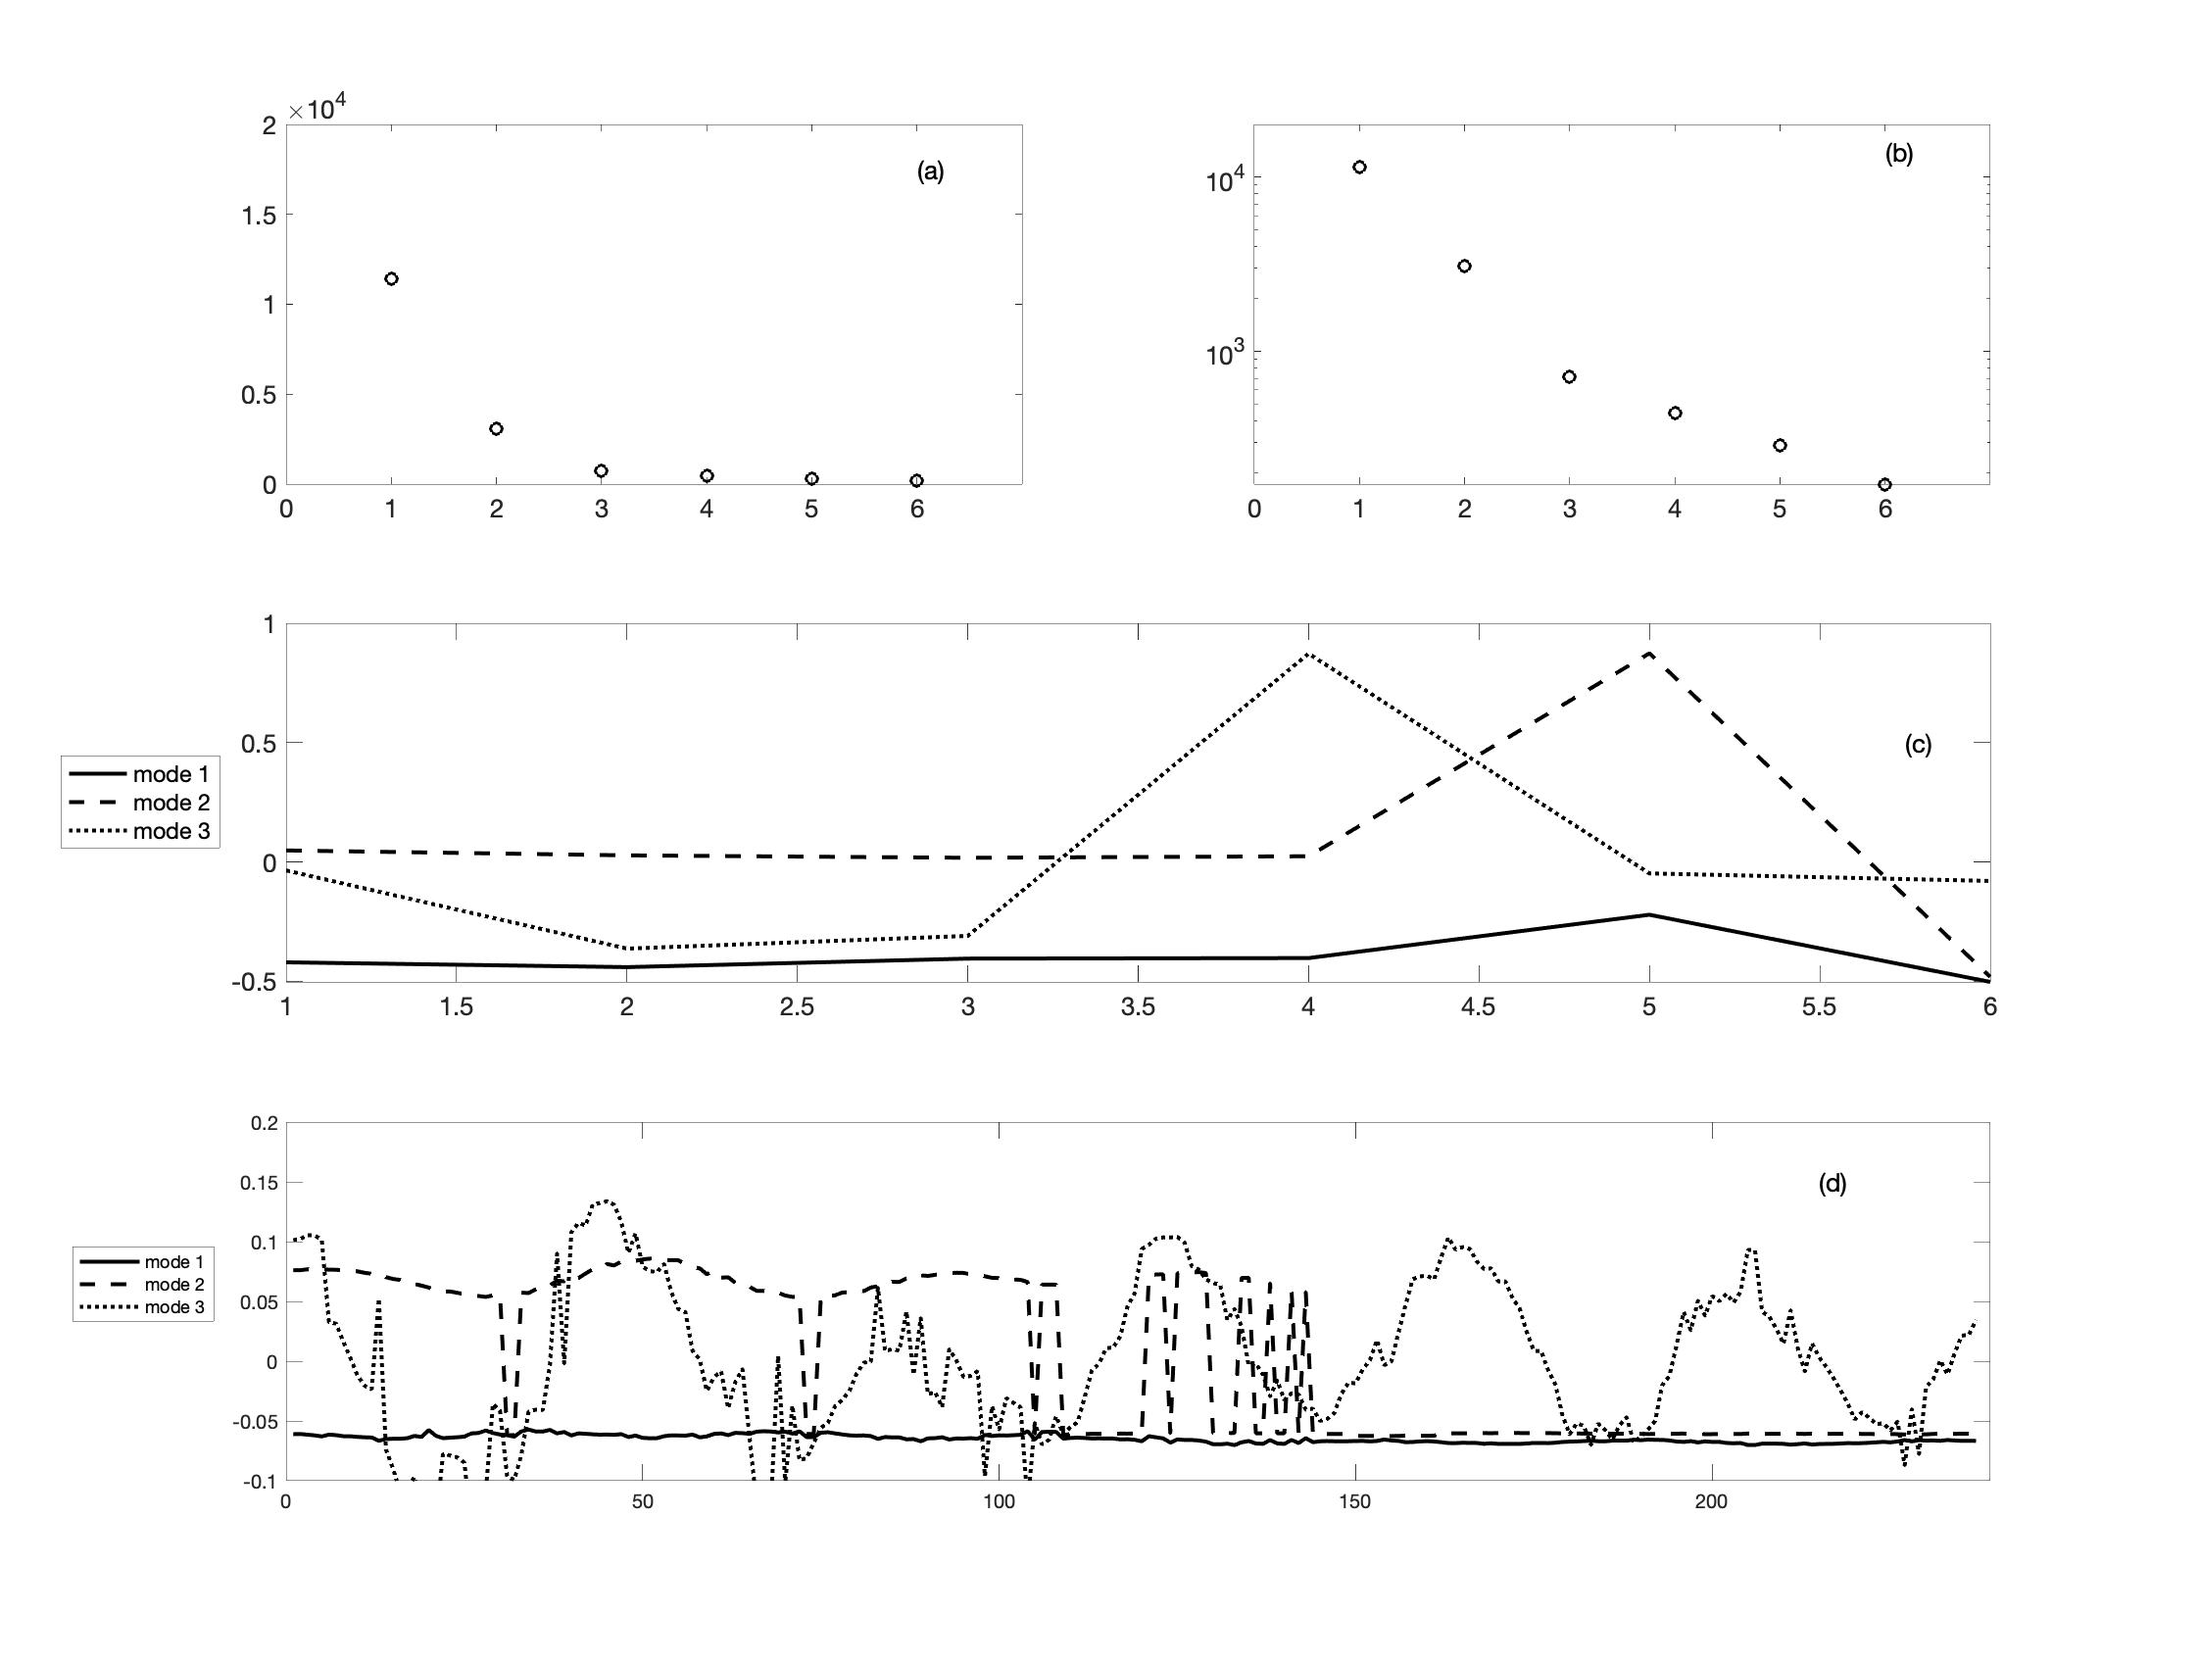
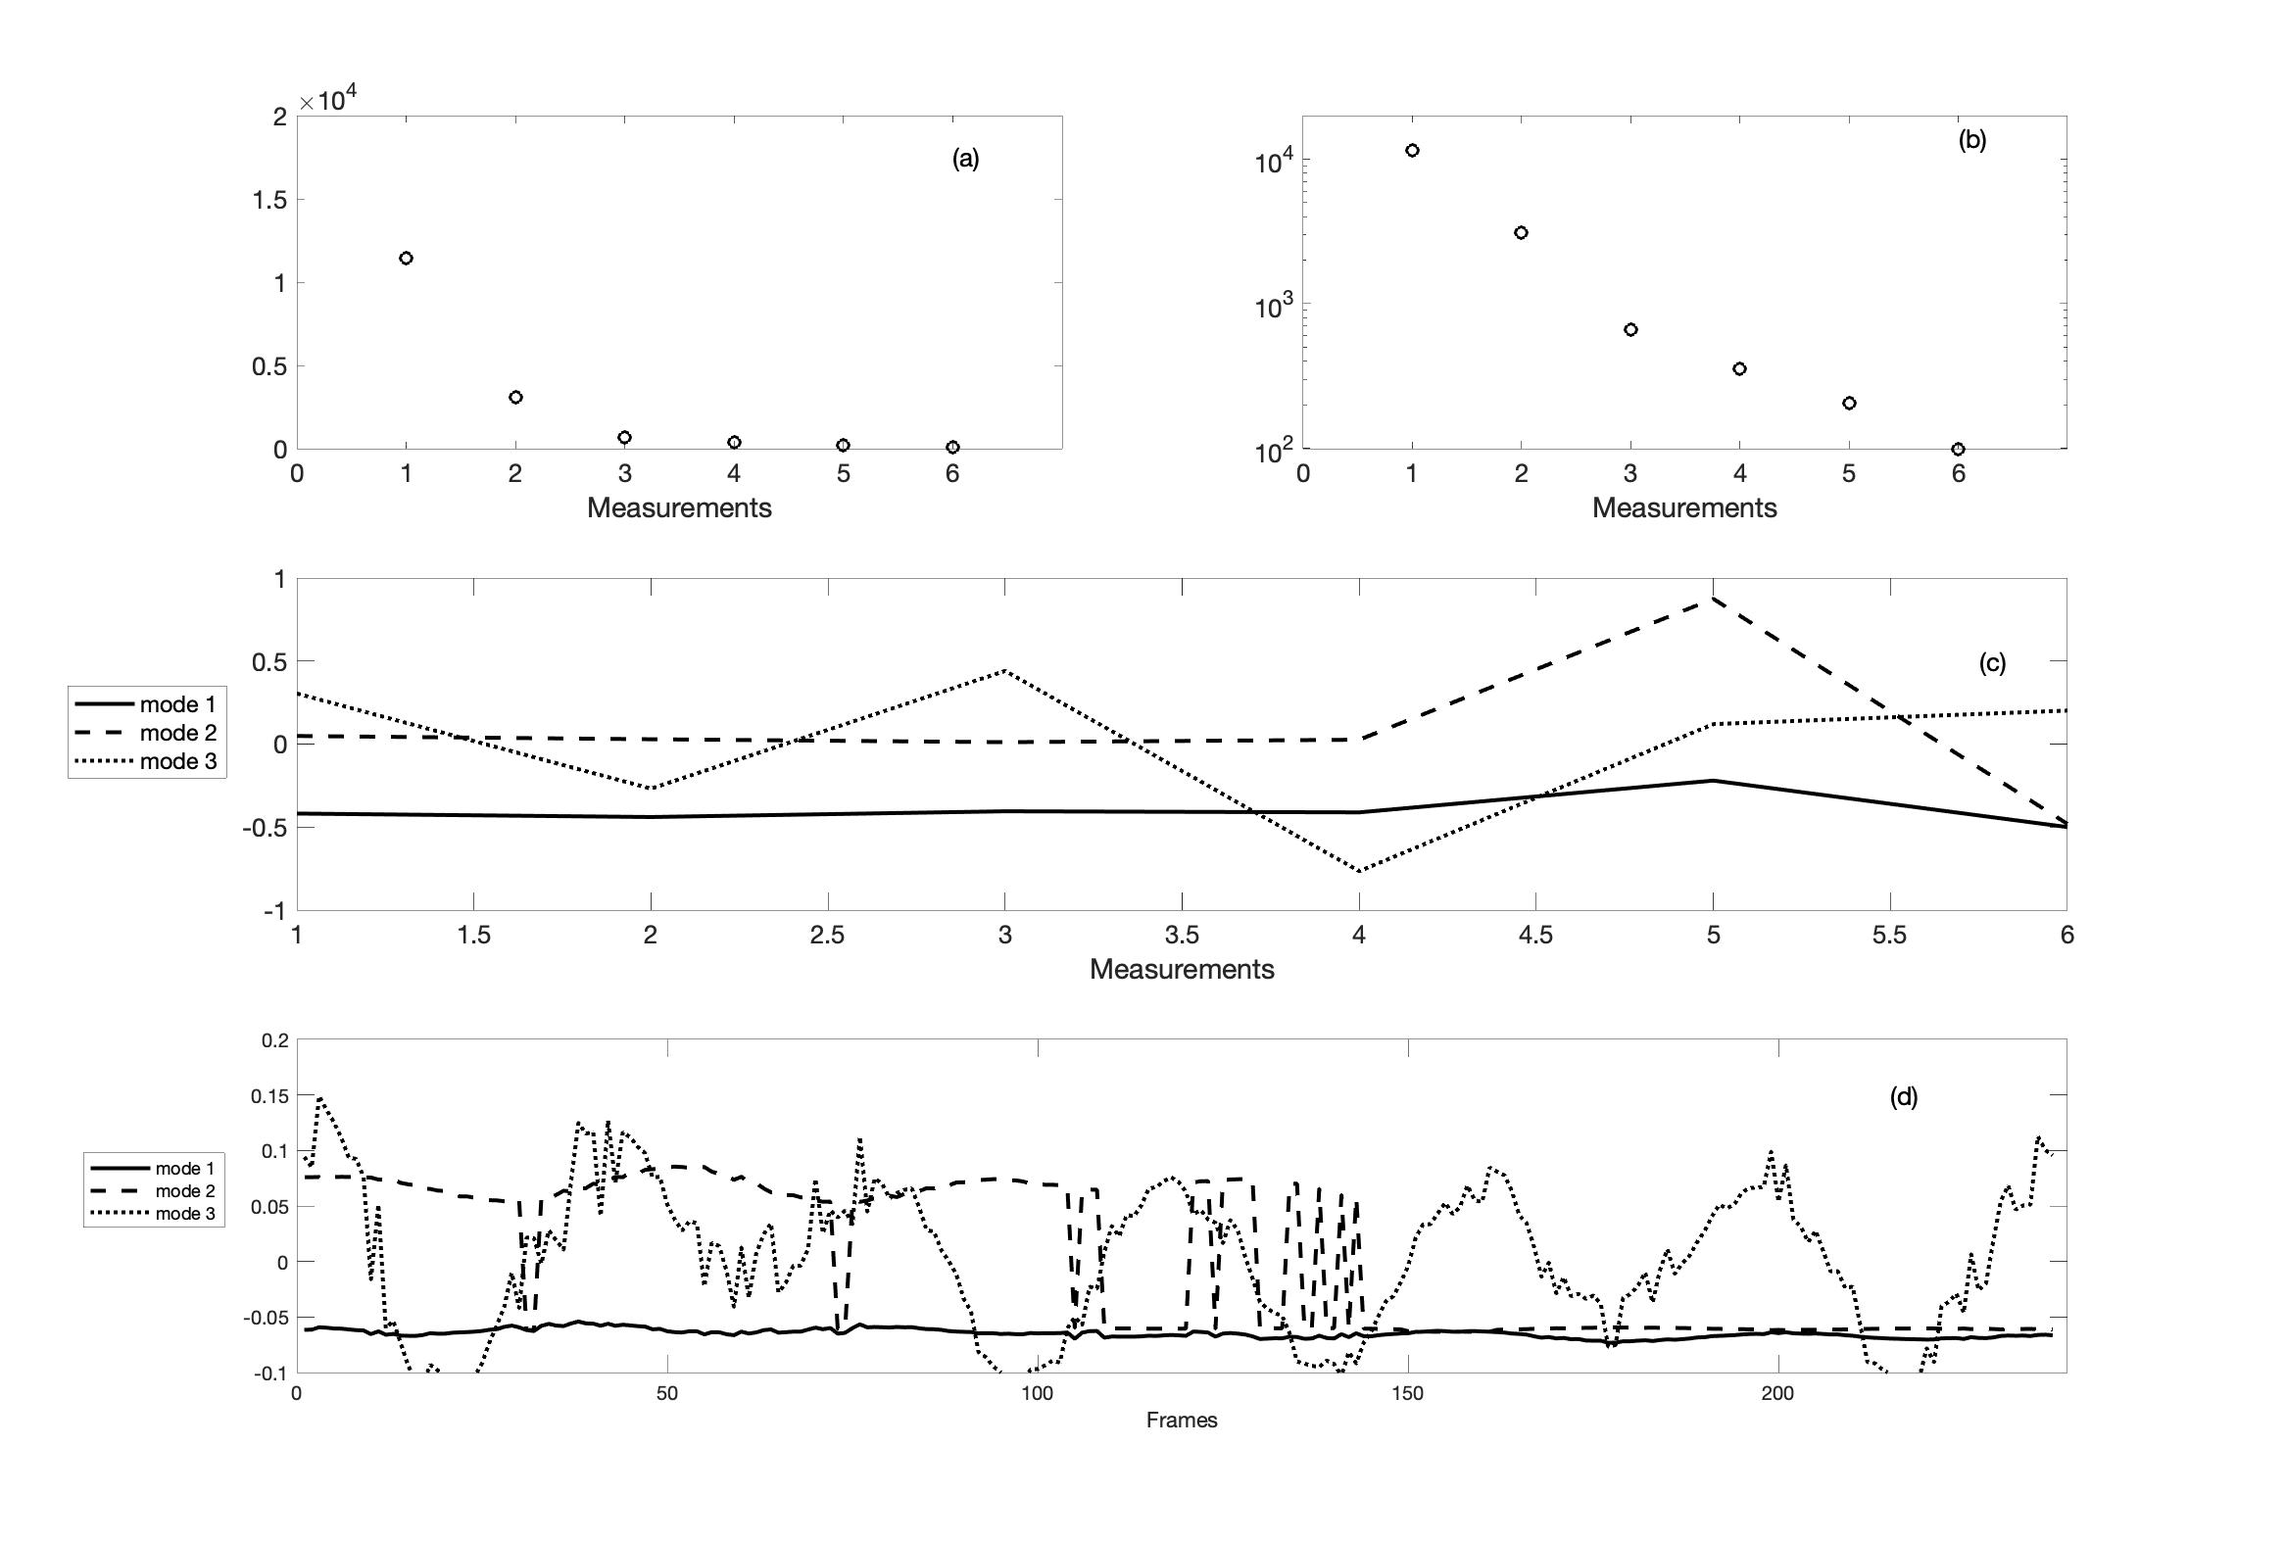
updating figure labels

diff --git a/HorizDispwRot.m b/HorizDispwRot.m
@@ -46,17 +46,17 @@ end
 figure(1)
 for i = 1:min(frames)  
     subplot(1,3,1) % i = 15 at peak
-    F1 = frame2im(mov1(i + 15));
+    F1 = frame2im(mov1(i));
     imshow(F1);
     drawnow
     
     subplot(1,3,2) % i = 19 at peak
-    F2 = frame2im(mov2(i + 19));
+    F2 = frame2im(mov2(i));
     imshow(F2);
     drawnow
     
     subplot(1,3,3) % i = 16 at peak
-    F3 = frame2im(mov3(i + 16));
+    F3 = frame2im(mov3(i));
     imshow(F3);
     drawnow
 end
@@ -162,12 +162,14 @@ subplot(3,2,1), plot(sig,'ko','Linewidth',[1.5])
 axis([0 7 0 2*10^4])
 set(gca,'Fontsize',[13],'Xtick',[0 1 2 3 4 5 6]) 
 text(6,1.75*10^4,'(a)','Fontsize',[13])
+xlabel('Measurements')
 
 subplot(3,2,2), semilogy(sig,'ko','Linewidth',[1.5])
 axis([0 7 0 2*10^4])
 set(gca,'Fontsize',[13],'Ytick',[10^0 10^2 10^3 10^4 10^5],...
    'Xtick',[0 1 2 3 4 5 6]); 
 text(6,1.4*10^4,'(b)','Fontsize',[13])
+xlabel('Measurements')
 
 xtest = linspace(1,6,6);
 subplot(3,1,2) 
@@ -175,6 +177,7 @@ plot(xtest,u(:,1),'k',xtest,u(:,2),'k--',xtest,u(:,3),'k:','Linewidth',[2])
 set(gca,'Fontsize',[13])
 legend('mode 1','mode 2','mode 3','Location','NorthWest') 
 text(5.75,0.5,'(c)','Fontsize',[13])
+xlabel('Measurements')
 
 subplot(3,1,3)
 t = linspace(1,shortest,shortest);
@@ -182,3 +185,4 @@ plot(t, v(:,1),'k',t, v(:,2),'k--',t, v(:,3),'k:','Linewidth',[2])
 legend('mode 1','mode 2','mode 3','Location','NorthWest') 
 axis([0 numFrames1 -0.1 0.2])
 text(355,0.15,'(d)','Fontsize',[13])
+xlabel('Frames')

diff --git a/Ideal_Case.m b/Ideal_Case.m
@@ -156,6 +156,7 @@ sig=diag(s);
 subplot(3,2,1), plot(sig,'ko','Linewidth',[1.5])
 axis([0 7 0 2*10^4])
 set(gca,'Fontsize',[13],'Xtick',[0 1 2 3 4 5 6]) 
+xlabel('Measurements')
 text(6,1.75*10^4,'(a)','Fontsize',[13])
 
 subplot(3,2,2), semilogy(sig,'ko','Linewidth',[1.5])
@@ -163,11 +164,13 @@ axis([0 7 0 2*10^4])
 set(gca,'Fontsize',[13],'Ytick',[10^0 10^2 10^3 10^4 10^5],...
    'Xtick',[0 1 2 3 4 5 6]); 
 text(6,1.4*10^4,'(b)','Fontsize',[13])
+xlabel('Measurements')
 
 xtest = linspace(1,6,6);
 subplot(3,1,2) 
 plot(xtest,u(:,1),'k',xtest,u(:,2),'k--',xtest,u(:,3),'k:','Linewidth',[2]) 
 set(gca,'Fontsize',[13])
+xlabel('Measurements')
 legend('mode 1','mode 2','mode 3','Location','NorthWest') 
 text(5.5,0.35,'(c)','Fontsize',[13])
 
@@ -175,5 +178,6 @@ subplot(3,1,3)
 t = linspace(1,numFrames1,numFrames1);
 plot(t, v(:,1),'k',t, v(:,2),'k--',t, v(:,3),'k:','Linewidth',[2])
 legend('mode 1','mode 2','mode 3','Location','NorthWest') 
+xlabel('Frames')
 axis([0 numFrames1 -0.1 0.2])
 text(215,0.15,'(d)','Fontsize',[13])

diff --git a/Noisy_Case.m b/Noisy_Case.m
@@ -152,12 +152,14 @@ subplot(3,2,1), plot(sig,'ko','Linewidth',[1.5])
 axis([0 7 0 2*10^4])
 set(gca,'Fontsize',[13],'Xtick',[0 1 2 3 4 5 6]) 
 text(6,1.75*10^4,'(a)','Fontsize',[13])
+xlabel('Measurements')
 
 subplot(3,2,2), semilogy(sig,'ko','Linewidth',[1.5])
 axis([0 7 0 2*10^4])
 set(gca,'Fontsize',[13],'Ytick',[10^0 10^2 10^3 10^4 10^5],...
    'Xtick',[0 1 2 3 4 5 6]); 
 text(6,1.4*10^4,'(b)','Fontsize',[13])
+xlabel('Measurements')
 
 xtest = linspace(1,6,6);
 subplot(3,1,2) 
@@ -165,6 +167,7 @@ plot(xtest,u(:,1),'k',xtest,u(:,2),'k--',xtest,u(:,3),'k:','Linewidth',[2])
 set(gca,'Fontsize',[13])
 legend('mode 1','mode 2','mode 3','Location','NorthWest') 
 text(5.75,0.35,'(c)','Fontsize',[13])
+xlabel('Measurements')
 
 subplot(3,1,3)
 t = linspace(1,numFrames1,numFrames1);
@@ -172,3 +175,4 @@ plot(t, v(:,1),'k',t, v(:,2),'k--',t, v(:,3),'k:','Linewidth',[2])
 legend('mode 1','mode 2','mode 3','Location','NorthWest') 
 axis([0 numFrames1 -0.1 0.2])
 text(300,0.15,'(d)','Fontsize',[13])
+xlabel('Frames')

diff --git a/Horizontal_Displacement.m b/Horizontal_Displacement.m
@@ -156,12 +156,14 @@ subplot(3,2,1), plot(sig,'ko','Linewidth',[1.5])
 axis([0 7 0 2*10^4])
 set(gca,'Fontsize',[13],'Xtick',[0 1 2 3 4 5 6]) 
 text(6,1.75*10^4,'(a)','Fontsize',[13])
+xlabel('Measurements')
 
 subplot(3,2,2), semilogy(sig,'ko','Linewidth',[1.5])
 axis([0 7 0 2*10^4])
 set(gca,'Fontsize',[13],'Ytick',[10^0 10^2 10^3 10^4 10^5],...
    'Xtick',[0 1 2 3 4 5 6]); 
 text(6,1.4*10^4,'(b)','Fontsize',[13])
+xlabel('Measurements')
 
 xtest = linspace(1,6,6);
 subplot(3,1,2) 
@@ -169,6 +171,7 @@ plot(xtest,u(:,1),'k',xtest,u(:,2),'k--',xtest,u(:,3),'k:','Linewidth',[2])
 set(gca,'Fontsize',[13])
 legend('mode 1','mode 2','mode 3','Location','NorthWest') 
 text(5.75,0.5,'(c)','Fontsize',[13])
+xlabel('Measurements')
 
 subplot(3,1,3)
 t = linspace(1,shortest,shortest);
@@ -176,3 +179,4 @@ plot(t, v(:,1),'k',t, v(:,2),'k--',t, v(:,3),'k:','Linewidth',[2])
 legend('mode 1','mode 2','mode 3','Location','NorthWest') 
 axis([0 numFrames1 -0.1 0.2])
 text(215,0.15,'(d)','Fontsize',[13])
+xlabel('Frames')
